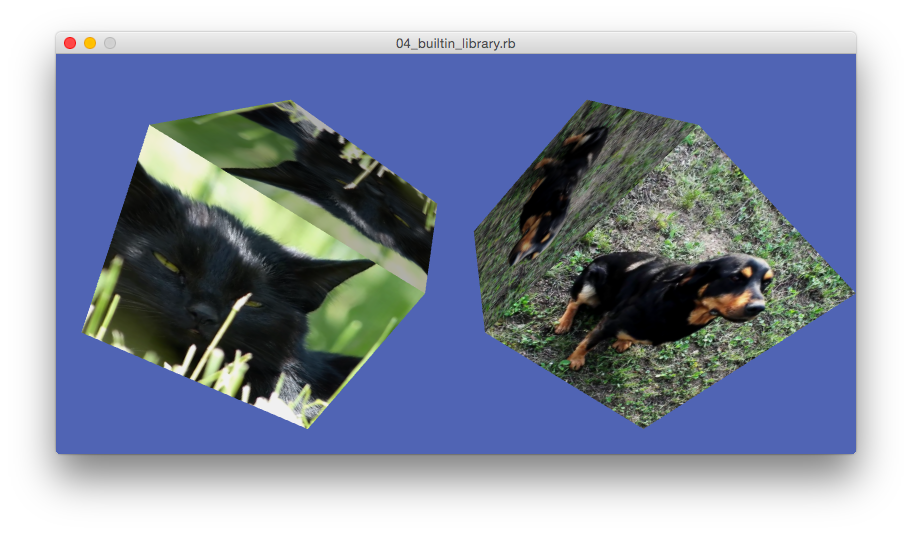
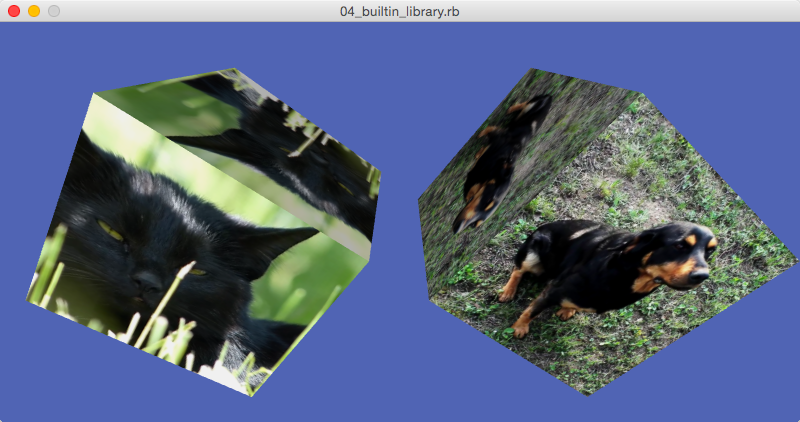
Resized the screenshots of the examples

diff --git a/README.ja.md b/README.ja.md
@@ -1,15 +1,116 @@
-# Processing.rb
+昨年末から開発を始めた[Processing.rb](https://github.com/kitao/processing.rb)が、ようやく皆様に使っていただけるレベルの完成度になりましたので、今日は真面目な紹介記事を書きたいと思います。
 
-Processing.rb runs a Processing sketch written in JRuby, and reloads it automatically when files in the same directory change.
+なお、今回の紹介記事をベースに後日日本語版のREADMEを作成する予定です。
 
-## インストール方法
+<!-- more -->
 
-```ruby
+# Processing.rbとは
+
+Processing.rbはRubyで気軽にProcessingのスケッチを作成できる実行環境です。他の同様のツールと比べて、Processing.rbはこんなところが違います。
+
+- 1ファイル、200行程度のシンプルなコードのため、気軽に拡張できます。
+- 設定ファイル不要で、MacでもWindowsでも自動で必要なファイルを探します。
+- スケッチ更新時に自動で再起動し、requireしたモジュールも再ロードします。
+- 本家のProcessing同様、1〜2行のコード追加で簡単に拡張ライブラリが使えます。
+- 表示位置の指定や最前面表示など、ライブコーディングに便利な機能があります。
+
+# ギャラリー
+
+<div width="45%">
+<img src="https://raw.githubusercontent.com/kitao/processing.rb/master/examples/screenshots/01_simple_sketch.png">
+<p>hgoe</p>
+</div>
+
+<a href="https://raw.githubusercontent.com/kitao/processing.rb/master/examples/screenshots/01_simple_sketch.png" target="_blank">
+<img
+src="https://raw.githubusercontent.com/kitao/processing.rb/master/examples/screenshots/02_input_handling.png" width="45%">
+</a>
+<a href="https://raw.githubusercontent.com/kitao/processing.rb/master/examples/screenshots/01_simple_sketch.png" target="_blank">
+<img src="https://raw.githubusercontent.com/kitao/processing.rb/master/examples/screenshots/03_multi_file.png" width="45%">
+</a>
+<a href="https://raw.githubusercontent.com/kitao/processing.rb/master/examples/screenshots/01_simple_sketch.png" target="_blank">
+<img src="https://raw.githubusercontent.com/kitao/processing.rb/master/examples/screenshots/04_builtin_library.png" width="45%">
+</a>
+<a href="https://raw.githubusercontent.com/kitao/processing.rb/master/examples/screenshots/01_simple_sketch.png" target="_blank">
+<img src="https://raw.githubusercontent.com/kitao/processing.rb/master/examples/screenshots/05_external_library.png" width="45%">
+</a>
+
+https://github.com/kitao/processing.rb/blob/master/examples/01_simple_sketch.rb
+
+https://github.com/kitao/processing.rb/blob/master/examples/02_input_handling.rb
+
+https://github.com/kitao/processing.rb/blob/master/examples/03_multi_file.rb
+
+https://github.com/kitao/processing.rb/blob/master/examples/04_builtin_library.rb
+
+https://github.com/kitao/processing.rb/blob/master/examples/05_external_library.rb
+
+# インストール方法
+
+Processing.rbを動かすには、事前にProcessingとJRubyのインストールが必要です。それぞれのツールは以下の公式サイトから入手できます。
+
+- [Processing](https://processing.org/)
+- [JRuby](http://jruby.org/)
+
+Macであれば、JRubyは[Homebrew](http://brew.sh/)からインストールすることも可能です。
+
+Processing.rbは、次のようにJRubyのgemコマンドからインストールします。
+
+```sh
 jruby -S gem install processing.rb
 ```
 
-## 使い方
+オフィスなどのプロキシ環境でインストールする場合は、コマンドの後ろに`-p http://proxy.hostname:port`のように[-p オプション](http://guides.rubygems.org/command-reference/#gem-install)でプロキシ設定をつけてください。
 
-```ruby
-jruby -S processing.rb [sketchfile]
+# スケッチを作成する
+
+
+```sh
+jruby -S processing.by [sketchfile]
 ```
+
+# 入力を取得する
+
+
+# 拡張ライブラリを使用する
+
+
+# APIリファレンス
+
+** Processingモジュール **
+
+|定数|説明|
+|--|--|
+|SKETCH_FILE|起動時に指定されたスケッチファイル|
+|SKETCH_BASE|ディレクトリ名を除いたスケッチファイル|
+|SKETCH_DIR|スケッチファイルのディレクトリ名|
+|SketchBase|スケッチのベースクラス|
+
+|メソッド|説明|
+|--|--|
+|load_library(name)||
+|load_jars(dir)||
+|import_package(package, module_name)||
+|sketch_path(path)|スケッチファイルからの相対パスを絶対パスに変換する|
+|start(sketch, topmost: false, pos: nil)|スケッチを開始する|
+|reload|スケッチファイルを再読み込みする|
+
+** Processing::SketchBaseクラス **
+
+|メソッド|説明|
+|--|--|
+|key_pressed?   |xx|
+|mouse_pressed? |xx|
+
+
+  # Procesingライブラリの使い方
+
+
+  # ライセンス
+
+  - MITライセンス
+
+
+  Getting Started
+  Examples
+  Documentation

diff --git a/CHANGELOG.md b/CHANGELOG.md
@@ -1,5 +1,10 @@
 # Change Log
 
+## 0.9.0
+- Added README in Japanese
+- Resized the screenshots of the examples
+-
+
 ## 0.8.0
 - Updated the example #5
 - Refined the example #3
